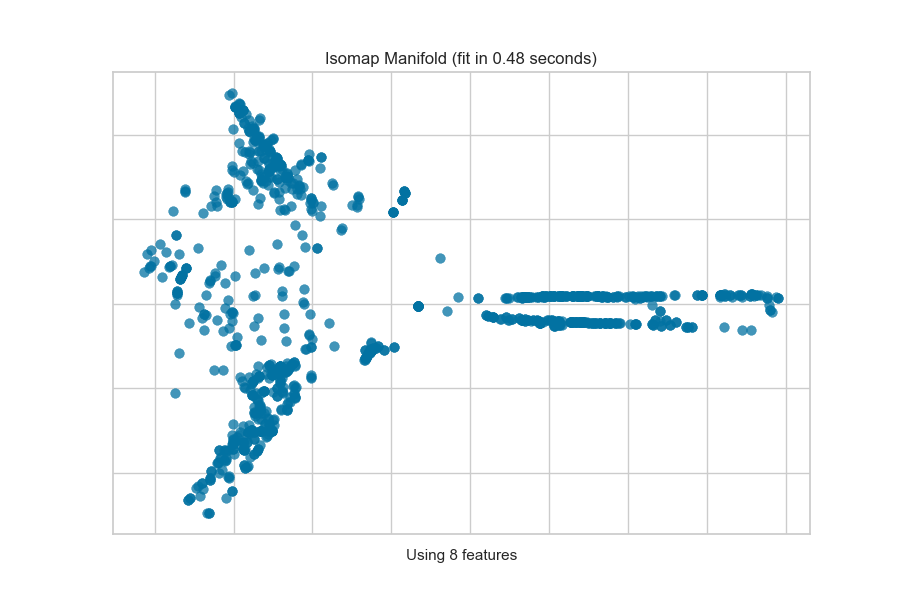
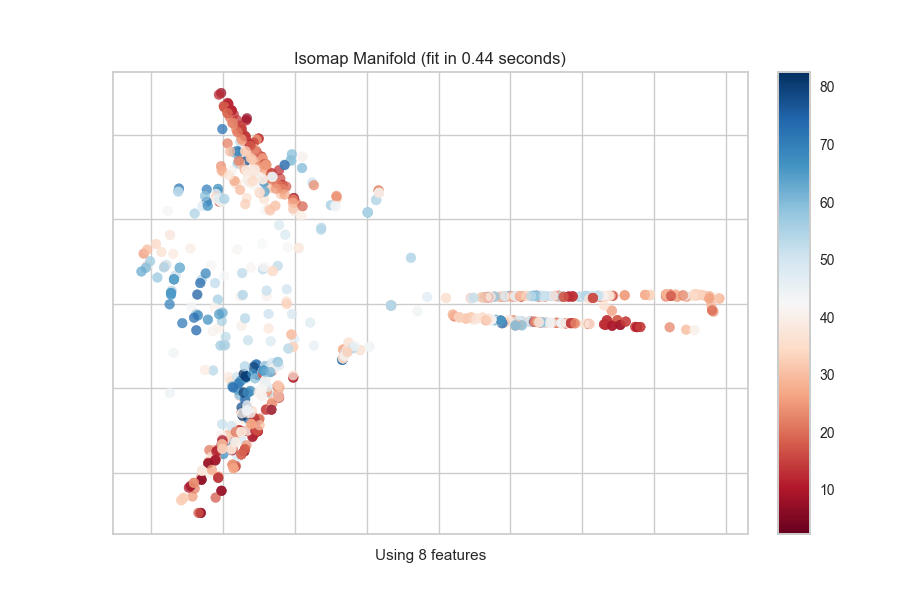
fixed bug that prevented colorbar from showing in docs, added test coverage for continuous and discrete target quick method usage

diff --git a/yellowbrick/features/manifold.py b/yellowbrick/features/manifold.py
@@ -311,7 +311,8 @@ class Manifold(ProjectionVisualizer):
 
                 # Issue a warning that the n_neighbors was set to a default.
                 warnmsg = (
-                    "using n_neighbors={}; please explicitly specify for the '{}' manifold"
+                    "using n_neighbors={};"
+                    " please explicitly specify for the '{}' manifold"
                 ).format(self.n_neighbors, str(transformer))
                 warnings.warn(warnmsg, YellowbrickWarning)
 
@@ -511,22 +512,9 @@ def manifold_embedding(
 
     manifold : str or Transformer, default: "lle"
         Specify the manifold algorithm to perform the embedding. Either one of
-        the strings listed in the table below, or an actual scikit-learn
+        the strings listed in the table above, or an actual scikit-learn
         transformer. The constructed manifold is accessible with the manifold
         property, so as to modify hyperparameters before fit.
-
-        ============== ==========================
-        Manifold       Description
-        -------------- --------------------------
-        ``"lle"``      `Locally Linear Embedding <http://scikit-learn.org/stable/modules/manifold.html#locally-linear-embedding>`_
-        ``"ltsa"``     `LTSA LLE <http://scikit-learn.org/stable/modules/manifold.html#local-tangent-space-alignment>`_
-        ``"hessian"``  `Hessian LLE <http://scikit-learn.org/stable/modules/manifold.html#hessian-eigenmapping>`_
-        ``"modified"`` `Modified LLE <http://scikit-learn.org/stable/modules/manifold.html#modified-locally-linear-embedding>`_
-        ``"isomap"``   `Isomap <http://scikit-learn.org/stable/modules/manifold.html#isomap>`_
-        ``"mds"``      `Multi-Dimensional Scaling <http://scikit-learn.org/stable/modules/manifold.html#multi-dimensional-scaling-mds>`_
-        ``"spectral"`` `Spectral Embedding <http://scikit-learn.org/stable/modules/manifold.html#spectral-embedding>`_
-        ``"tsne"``     `t-SNE <http://scikit-learn.org/stable/modules/manifold.html#t-distributed-stochastic-neighbor-embedding-t-sne>`_
-        ============== ==========================
 
     n_neighbors : int, default: None
         Many manifold algorithms are nearest neighbors based, for those that
@@ -597,27 +585,6 @@ def manifold_embedding(
         Keyword arguments passed to the base class and may influence the
         feature visualization properties.
 
-    Attributes
-    ----------
-    fit_time_ : yellowbrick.utils.timer.Timer
-        The amount of time in seconds it took to fit the Manifold.
-
-    classes_ : ndarray, shape (n_classes,)
-        The class labels that define the discrete values in the target. Only
-        available if the target type is discrete. This is guaranteed to be
-        strings even if the classes are a different type.
-
-    features_ : ndarray, shape (n_features,)
-        The names of the features discovered or used in the visualizer that
-        can be used as an index to access or modify data in X. If a user passes
-        feature names in, those features are used. Otherwise the columns of a
-        DataFrame are used or just simply the indices of the data array.
-
-    range_ : (min y, max y)
-        A tuple that describes the minimum and maximum values in the target.
-        Only available if the target type is continuous.
-
-
     Returns
     -------
     viz : Manifold
@@ -641,7 +608,7 @@ def manifold_embedding(
         **kwargs
     )
 
-    # Fit and finalize (calls draw)
+    # Fit and transform the visualizer (calls draw)
     viz.fit_transform(X, y)
 
     if show:

diff --git a/tests/test_features/test_manifold.py b/tests/test_features/test_manifold.py
@@ -315,12 +315,49 @@ class TestManifold(VisualTestCase):
         # TODO: find a way to decrease this tolerance
         self.assert_images_similar(oz, tol=40)
 
-    def test_manifold_quick_method(self):
+    def test_manifold_quick_method_no_target(self):
         """
-        Test Manifold quick method with single target.
+        Test Manifold quick method with no target.
         """
         X, _ = make_blobs(n_samples=300, n_features=7, centers=3, random_state=1112)
         visualizer = manifold_embedding(
             X, manifold="mds", random_state=139973, show=False
         )
+
+        assert isinstance(visualizer, Manifold)
+        self.assert_images_similar(visualizer)
+
+    def test_manifold_quick_method_discrete_target(self):
+        """
+        Test Manifold quick method with a discrete target.
+        """
+        X, y = self.discrete
+
+        visualizer = manifold_embedding(
+            X,
+            y,
+            manifold="mds",
+            target="discrete",
+            n_neighbors=5,
+            random_state=37,
+            show=False
+        )
+        assert isinstance(visualizer, Manifold)
+        self.assert_images_similar(visualizer)
+
+    def test_manifold_quick_method_continuous_target(self):
+        """
+        Test Manifold quick method with a continuous target.
+        """
+        X, y = self.continuous
+
+        visualizer = manifold_embedding(
+            X,
+            y,
+            manifold="tsne",
+            target="continuous",
+            random_state=37,
+            show=False
+        )
+        assert isinstance(visualizer, Manifold)
         self.assert_images_similar(visualizer)

diff --git a/docs/api/features/manifold.py b/docs/api/features/manifold.py
@@ -85,7 +85,7 @@ def dataset_example(
 
     # Check if the quick method is called
     if quick:
-        oz = manifold_embedding(X, manifold=manifold, **kwargs)
+        oz = manifold_embedding(X, y, manifold=manifold, show=False, **kwargs)
         oz.show(outpath=path)
     else:
         oz = Manifold(ax=ax, manifold=manifold, **kwargs)
@@ -171,14 +171,20 @@ if __name__ == "__main__":
     # curve.plot_all_manifolds()
     dataset_example("concrete", "tsne", path="images/concrete_tsne_manifold.png")
     dataset_example(
-        "occupancy", "tsne", classes=["unoccupied", "occupied"],
-        path="images/occupancy_tsne_manifold.png"
+        "occupancy",
+        "tsne",
+        classes=["unoccupied", "occupied"],
+        path="images/occupancy_tsne_manifold.png",
     )
     dataset_example(
         "concrete", "isomap", path="images/concrete_isomap_manifold.png", n_neighbors=10
     )
     dataset_example(
-        "concrete", "isomap", path="images/manifold_quick_method.png", n_neighbors=10,
-        quick=True
+        "concrete",
+        "isomap",
+        target="continuous",
+        path="images/manifold_quick_method.png",
+        n_neighbors=10,
+        quick=True,
     )
     select_features_example(algorithm="isomap", n_neighbors=10)
